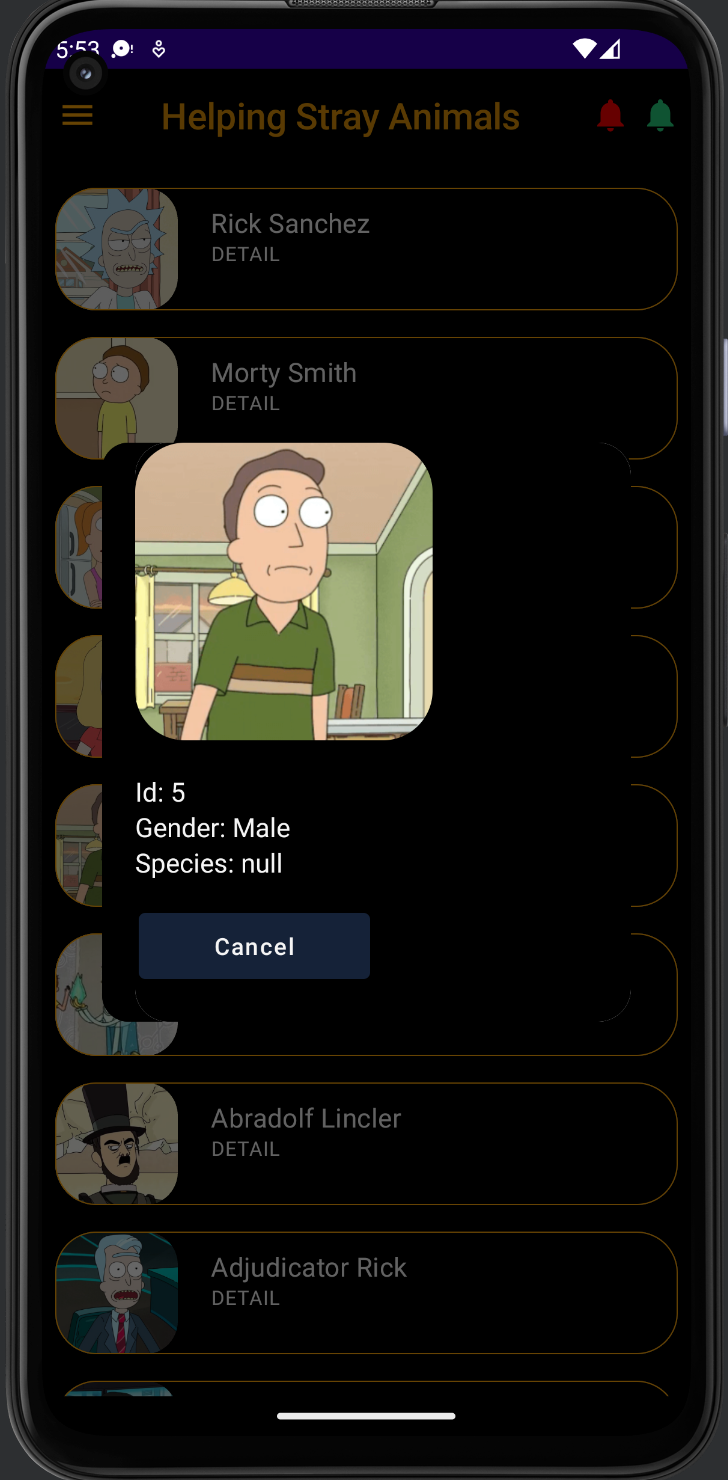
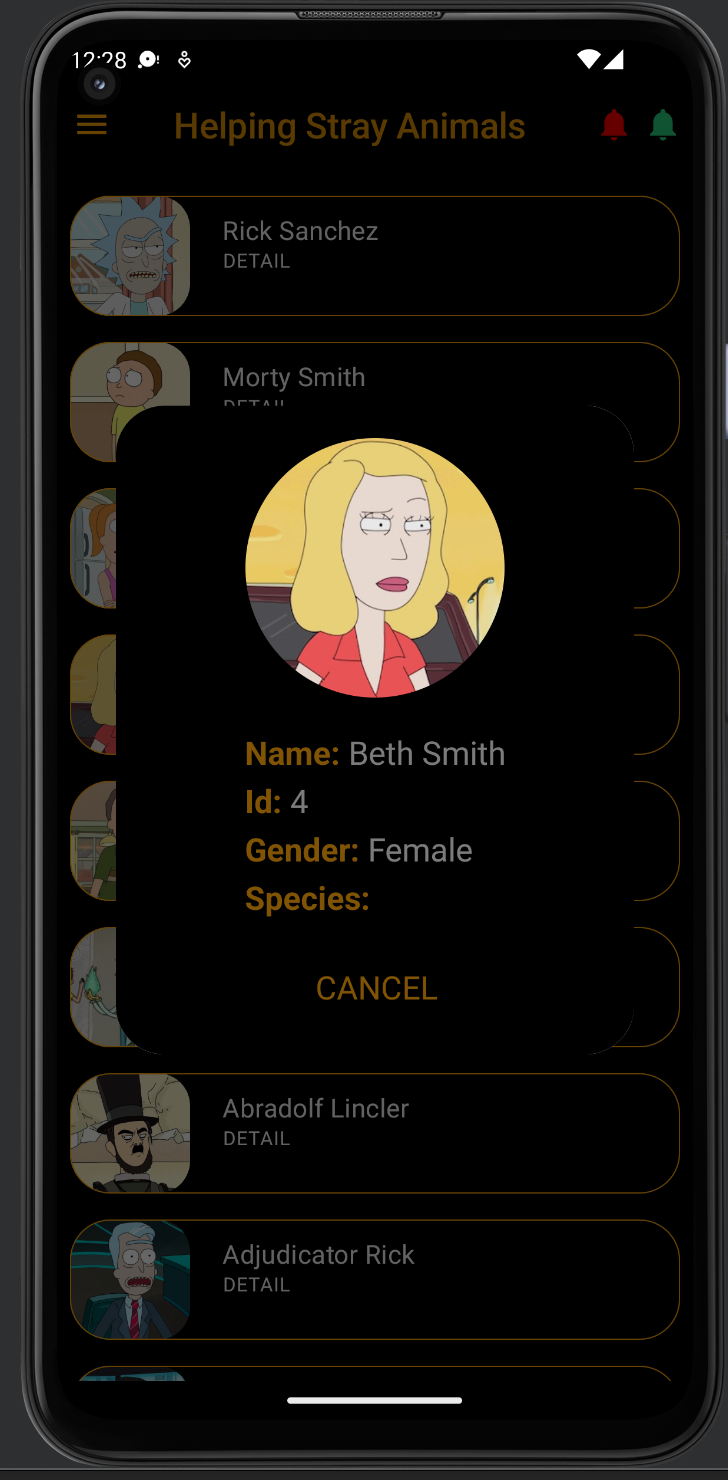
card detail design

diff --git a/app/src/main/java/com/example/happypet/view/component/CardDetail.kt b/app/src/main/java/com/example/happypet/view/component/CardDetail.kt
@@ -1,12 +1,10 @@
 package com.example.happypet.view.component
 
 import androidx.compose.foundation.background
-import androidx.compose.foundation.border
 import androidx.compose.foundation.layout.*
 import androidx.compose.foundation.shape.RoundedCornerShape
 import androidx.compose.material.Button
 import androidx.compose.material.Card
-import androidx.compose.material.Surface
 import androidx.compose.material.Text
 import androidx.compose.runtime.Composable
 import androidx.compose.runtime.MutableState
@@ -14,74 +12,160 @@ import androidx.compose.ui.Alignment
 import androidx.compose.ui.Modifier
 import androidx.compose.ui.draw.clip
 import androidx.compose.ui.graphics.Color
+import androidx.compose.ui.text.TextStyle
+import androidx.compose.ui.text.font.FontWeight
 import androidx.compose.ui.unit.dp
+import androidx.compose.ui.unit.sp
 import androidx.compose.ui.window.Dialog
 import com.example.happypet.model.Character
+import com.example.happypet.view.theme.gold
 import com.example.happypet.view.theme.whitesmoke
+
+val style = ComponentsStyle()
 
 @Composable
 fun CardDetail(character: MutableState<Character?>, openDialog: MutableState<Boolean>) {
-    val style = ComponentsStyle()
-    val charName: String = character.value!!.name
-    val charImage: String = character.value!!.image
+
+
     Dialog(
         onDismissRequest = {
             openDialog.value = false
         },
     ) {
 
-        Surface(
-            color= Color.Black,
-            shape = RoundedCornerShape(16.dp)
+        Column(
+            verticalArrangement = Arrangement.SpaceEvenly,
+            horizontalAlignment = Alignment.CenterHorizontally,
+            modifier = style.column,
+
         ) {
             Card(
                 modifier = style.card,
                 elevation = 8.dp,
-                shape = RoundedCornerShape(20.dp)
             ) {
                 Column(
-                    modifier = Modifier.background(Color.Black)
+                    modifier = Modifier.background(Color.Black),
+                    verticalArrangement = Arrangement.SpaceEvenly,
+                    horizontalAlignment = Alignment.CenterHorizontally,
                 ) {
-                    Column(modifier = style.imageLayout) {
-                        CharacterImage(charName, charImage)
-                    }
-                    Text("Id: " + character.value?.id.toString(), color = whitesmoke, modifier = Modifier.padding(0.dp,20.dp,0.dp,0.dp))
-                    Text("Gender: " + character.value?.gender.toString(), color = whitesmoke)
-                    Text("Species: " + character.value?.species.toString(), color = whitesmoke)
 
-                    Row(modifier = style.btnContainer) {
+                    CardImage(character = character)
+                    CardTexts(character = character)
+                    CancelBtn(openDialog = openDialog)
 
-                        Button(
-                            modifier = style.button,
-                            onClick = {
-                                openDialog.value = false
-                            }) {
-                            Text("Cancel", color = whitesmoke)
-                        }
-
-                    }
                 }
             }
         }
     }
 
+
+}
+
+@Composable
+fun CardImage(character: MutableState<Character?>) {
+    val name: String = character.value!!.name
+    val image: String = character.value!!.image
+    Column(
+        modifier = style.imageLayout,
+        verticalArrangement = Arrangement.SpaceEvenly,
+        horizontalAlignment = Alignment.CenterHorizontally,
+    ) {
+        CharacterImage(name, image)
+    }
+}
+
+@Composable
+fun CardTexts(character: MutableState<Character?>) {
+
+    val name: String = character.value!!.name
+    val id: String = character.value!!.id.toString()
+    val gender: String = character.value!!.gender.toString()
+    val species: String = ""
+
+    Column() {
+        PairText(
+            key = "Name",
+            value = name,
+            paddingTop = 20)
+
+        PairText(
+            key = "Id",
+            value = id,
+            paddingTop = 3)
+
+        PairText(
+            key = "Gender",
+            value = gender,
+            paddingTop = 3)
+
+        PairText(
+            key = "Species",
+            value = species,
+            paddingTop = 3)
+    }
+}
+
+@Composable
+fun PairText(key: String, value: String, paddingTop: Int) {
+    Row(modifier = Modifier
+        .padding(0.dp, paddingTop.dp, 0.dp, 0.dp)) {
+        Text("$key: ", style = style.textKey)
+        Text(value, style = style.textValue)
+    }
+}
+
+@Composable
+fun CancelBtn(openDialog: MutableState<Boolean>) {
+    Row(
+        modifier = style.btnContainer,
+    ) {
+
+        Button(
+            modifier = style.button,
+            onClick = {
+                openDialog.value = false
+            }) {
+            Text("CANCEL", style = style.btnText)
+        }
+
+    }
 }
 
 class ComponentsStyle() {
-    val btnContainer: Modifier = Modifier.fillMaxWidth()
-    val button: Modifier = Modifier
-        .padding(2.dp,20.dp,0.dp,0.dp)
-        .width(140.dp)
-        .height(40.dp)
+    val column: Modifier = Modifier
+        .background(Color.Black)
+        .clip(RoundedCornerShape(30.dp))
 
     val card: Modifier = Modifier
-        .height(350.dp)
+        .height(400.dp)
         .background(Color.Black)
-        .padding(20.dp,0.dp,0.dp,0.dp)
+        .clip(RoundedCornerShape(20.dp))
 
+    val textKey = TextStyle(
+        color = gold.copy(.5f),
+        fontWeight = FontWeight.Bold,
+        fontSize = 20.sp
+    )
+
+    val textValue = TextStyle(
+        color = whitesmoke.copy(.5f),
+        fontSize = 20.sp
+    )
+
+    val btnContainer: Modifier = Modifier.fillMaxWidth()
+
+    val button: Modifier = Modifier
+        .padding(2.dp, 20.dp, 0.dp, 20.dp)
+        .fillMaxSize()
+        .height(30.dp)
+
+    val btnText = TextStyle(
+        fontSize = 20.sp,
+        color = gold.copy(.5f),
+    )
     val imageLayout: Modifier = Modifier
         .height(180.dp)
-        .width(180.dp)
-        .clip(RoundedCornerShape(30.dp,30.dp,30.dp,30.dp))
+        .padding(0.dp, 20.dp, 0.dp, 0.dp)
+        .clip(RoundedCornerShape(130.dp, 130.dp, 130.dp, 130.dp))
 
 }
